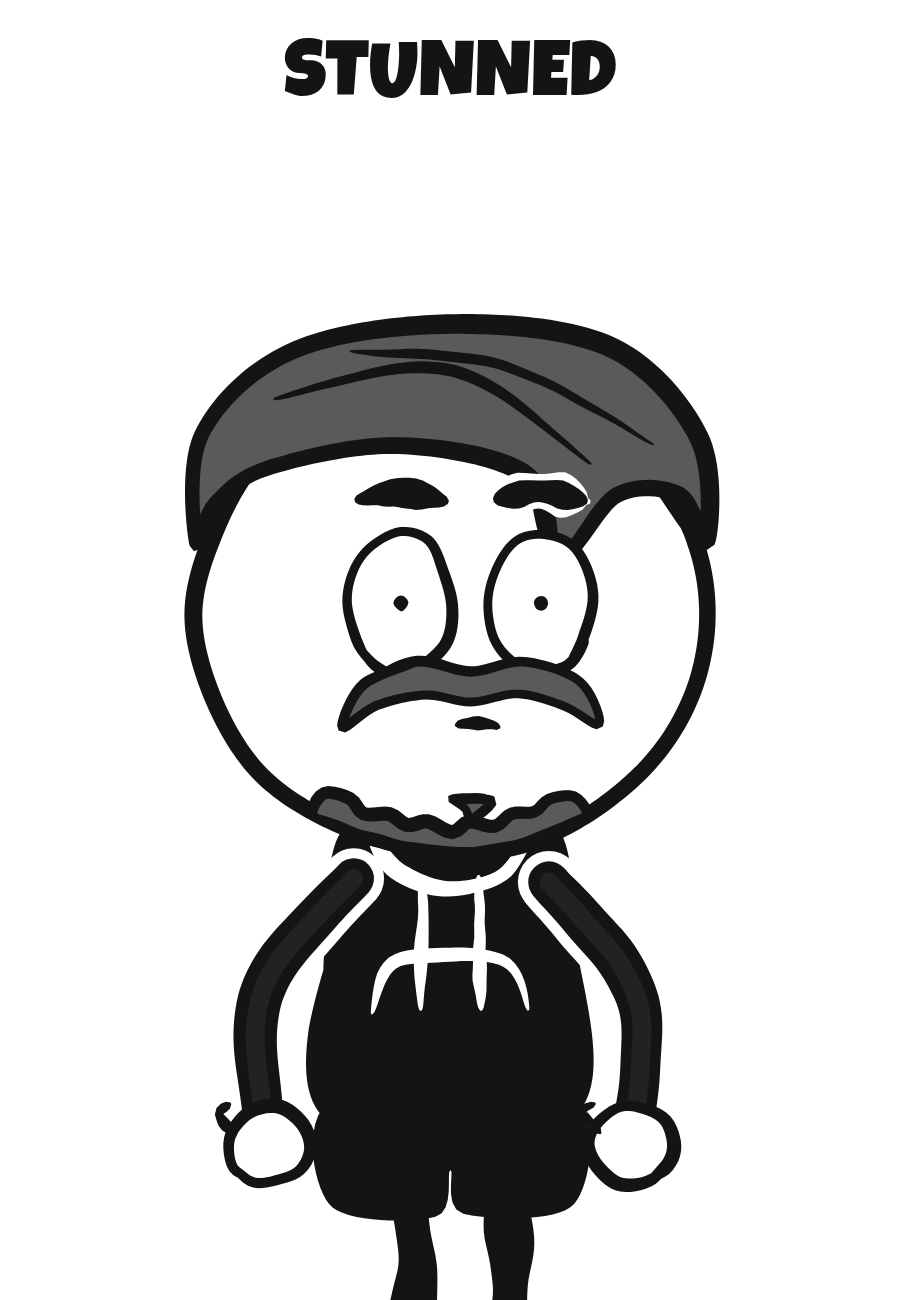
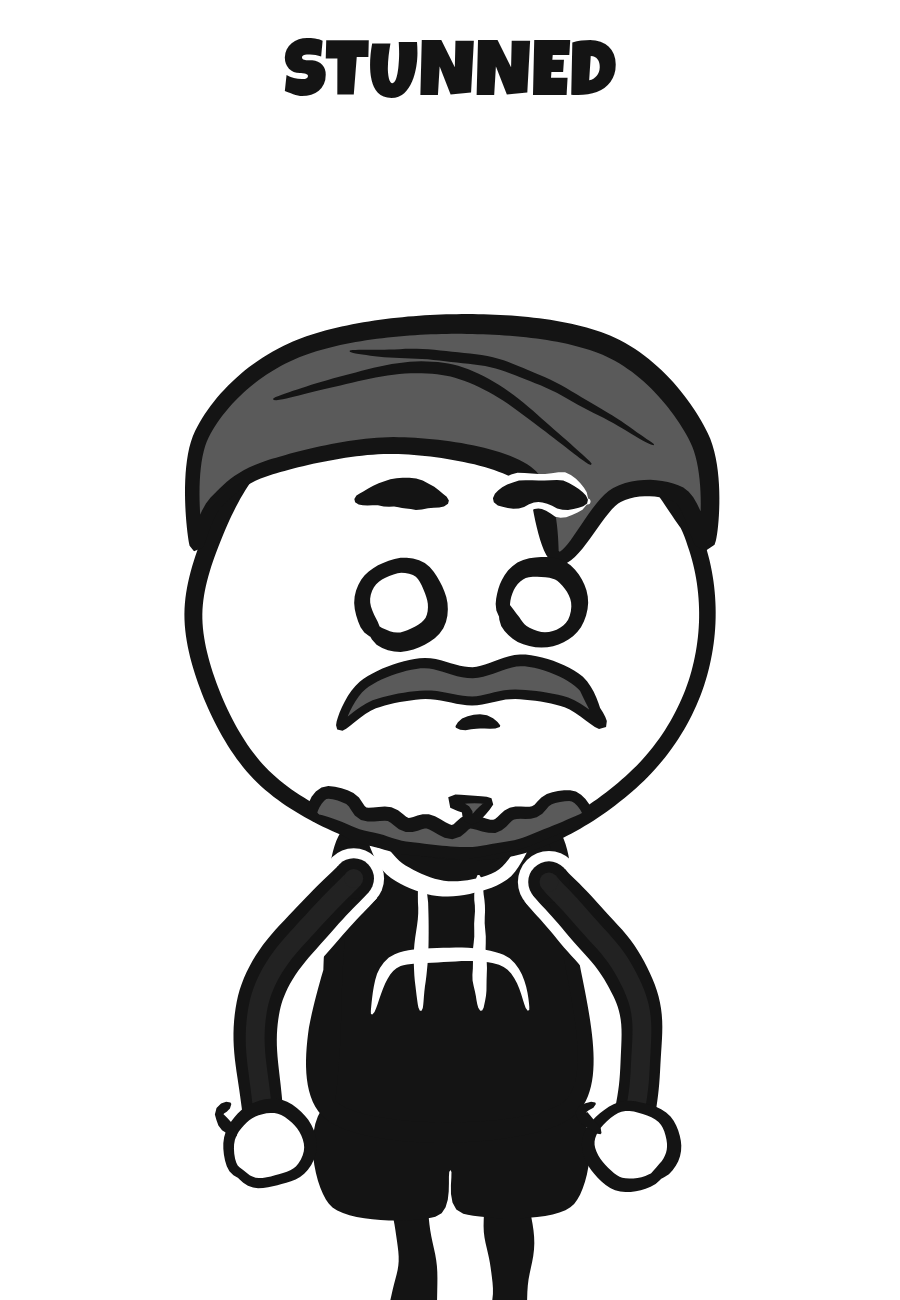
Stunned: small round empty eyes with a thick rim, no pupils
Claude-Session: https://claude.ai/code/session_01BoxvgZ1TpRreVfD9rN3XD5

Changed region(s): [[0.3733, 0.4, 0.6844, 0.5538]]

diff --git a/web/emotions.js b/web/emotions.js
@@ -38,7 +38,7 @@ const Emotions = (() => {
     yelling:   { mouth: 'rage', open: 1, squint: true, brow: 1.3, ...both([124, -196], 'out') },   // furious: anime rage eyes, shark teeth, fists clenched
     scared:    { mouth: 'wobbly', brow: -1, pupil: 6, sweat: true, lean: -0.05, ...both([46, -328], 'out', true) },   // fists pulled in under the chin, elbows out
     shocked:   { mouth: 'o', open: 1, brow: -0.7, pupil: 5, ...both([112, -392], 'down', true) },   // hands on cheeks
-    stunned:   { mouth: 'tiny', pupil: 4, brow: -0.1 },   // blank stare, arms limp
+    stunned:   { mouth: 'tiny', blank: true, brow: -0.1 },   // blank stare: small round empty eyes, arms limp
     nervous:   { mouth: 'wobbly', brow: -0.6, lookX: -0.8, sweat: true },
     confused:  { mouth: 'o', open: 0.25, browL: 0.6, browLiftL: 8, browR: -0.2, browLiftR: -16, lookX: -0.5, lookY: -0.6, tilt: 0.16,
                  ...arm(1, [132, -522], 'out', true, 150) },   // one brow up, one down, scratching the top of his head

diff --git a/web/characters.js b/web/characters.js
@@ -29,6 +29,11 @@ const Chars = (() => {
     for (const side of [-1, 1]) {
       const ex = fx + side * gap;
       const lid = p.lid ?? 0;
+      if (p.blank) {   // stunned: small, perfectly round, thick rim, no pupil
+        const r = rx * 0.72;
+        blob(ctx, ex, y, r, r, { fill: W, w: 10 * size, n: 12, jit: 0.6 });
+        continue;
+      }
       if (p.squint) {
         // rage (anime style): a big white eye with its top cut off by a thick
         // brow line that slopes down toward the nose; round bottom, no pupil
